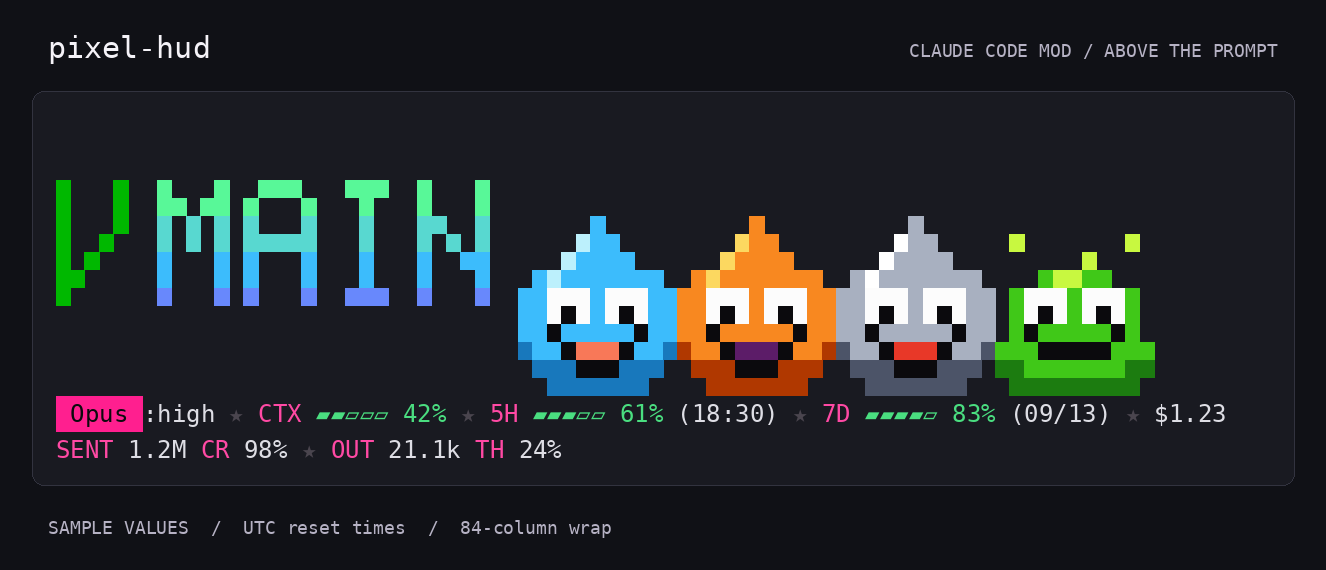
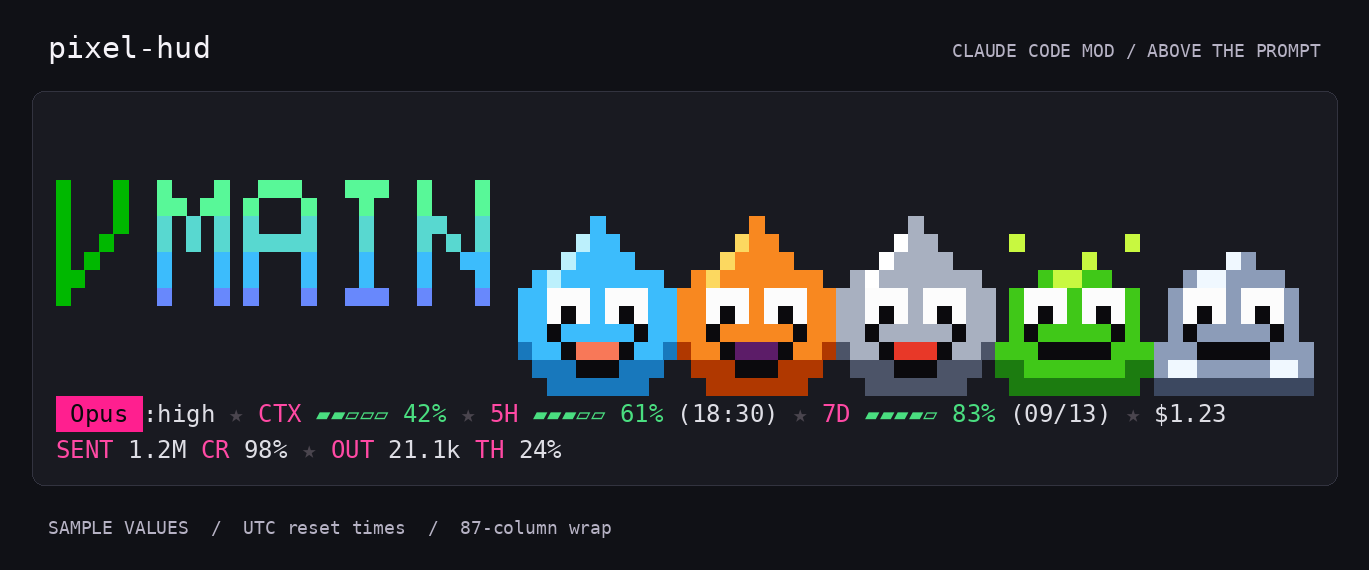
docs(pixel-hud): show all five kin and reconcile the motion spec

diff --git a/docs/showcase/render_mod.py b/docs/showcase/render_mod.py
@@ -33,6 +33,7 @@ mode.add_argument("--sheet", action="store_true",
                     help="draw the stage moments in a grid (one battle per quest skill)")
 mode.add_argument("--foes", type=Path, metavar="PNG",
                     help="draw every quest monster and skill frame to a contact sheet at PNG")
+parser.add_argument("--columns", type=int, default=84, help="terminal width (default: 84)")
 args = parser.parse_args()
 # Text is laid out with libraqm, as the committed images were: Pillow's basic
 # layout advances each cell 14 px instead of 14.45 and draws narrower images.
@@ -122,7 +123,7 @@ usage = {
     ],
     "cost": {"usd": payload["cost"]["total_cost_usd"]},
 }
-COLUMNS = 84
+COLUMNS = args.columns
 
 SHOWCASE_TEST = """
 import { mock, test } from 'claude-code/testing'
@@ -335,7 +336,7 @@ def paint(tree):
                 draw.rectangle((x, y + row_height / 2, x + cell_width, y + row_height - 1), fill=fg)
             elif char != " ":
                 draw.text((x, y + 26), char, font=font, fill=fg, anchor="ls")
-    draw.text((48, height - 53), "SAMPLE VALUES  /  UTC reset times  /  84-column wrap",
+    draw.text((48, height - 53), f"SAMPLE VALUES  /  UTC reset times  /  {COLUMNS}-column wrap",
               font=small, fill="#b6b2c4")
     return canvas, rows
 

diff --git a/docs/specs/dq-slime-motion.md b/docs/specs/dq-slime-motion.md
@@ -2,15 +2,15 @@
 
 Status: ready for agent · 2026-10-18 · shaped with `/impeccable shape`
 
-ADR 0015 later redrew the slimes 14 pixels wide on a 16-pixel stage (8 text
-rows) and doubled the lifts. The sizes, lifts and pixel drafts below are the
-original 7-pixel ones.
+ADR 0015 enlarged the stage to 16 pixels (8 text rows). The dimensions and
+motion below describe the current 11-column kin on that stage; the original
+7-pixel drafts have been superseded.
 
 The faces were later redrawn closer to Dragon Quest: round white eyes around a
 centred pupil, looking straight ahead, and a wide crescent grin with a salmon
 mouth. The King is 22 pixels wide under a crown of gold, purple and green. The
 merge crowns a King Slime, a Gold King Slime or a Metal King Slime, picked at
-random each time; each has its own body colours, and the Gold King's crown is
+random each time; each has its own body colours, and the Gold King's crown band is
 silver. The replies below name whichever King it is.
 
 Each kin was then modelled on its Dragon Quest counterpart and narrowed to 11
@@ -22,10 +22,13 @@ All five poses exist in all three sets. Each kin has its own palette: mouths
 are salmon, dark purple and red for the onion kin, with dark grins for both
 puddle-shaped kin. The merged blob stays 17 wide and all Kings stay 22 wide.
 The Gold and Metal Kings wear a plated sprite with banded metal shading; the
-blue King Slime keeps its own. A clean `main` heading uses 32 columns, so the 55-column family fits from 87 columns; the
-84-column showcase retains four kin under the existing branch-first fit rule.
+blue King Slime keeps its own. A clean `main` heading uses 32 columns, so the
+55-column family fits from 87 columns. The README family showcase uses that
+minimum width; at 84 columns only four kin fit under the branch-first fit rule.
 
 ## Problem Statement
+
+The original baseline before these changes was as follows.
 
 The slime family beside the branch in the pixel-hud mod reads as generic pixel
 blobs, not Dragon Quest slimes, and it moves stiffly. A hop is ten 140 ms
@@ -69,8 +72,9 @@ The HUD's numbers stay first. Motion marks moments; it never narrates.
    stays the same.
 3. As a developer, I want each kin's lower edge drawn in a darker shade of its
    body, so that the slimes look round rather than flat.
-4. As a developer, I want the slimes to keep their 7-column, 3-row footprint,
-   so that the branch name keeps its room.
+4. As a developer, I want each kin to use an 11-column slot on the 8-text-row
+   stage, giving up slots before shortening the branch name, so that the
+   branch name keeps its room.
 5. As a developer, I want the slimes to breathe at rest by default with a
    gentle squish every few seconds, so that the HUD feels alive without
    pulling my eye.
@@ -165,8 +169,8 @@ The HUD's numbers stay first. Motion marks moments; it never narrates.
 
 ### Sprites
 
-New palette letters, added to the existing B (body), H (highlight), Y (gold),
-R (jewel):
+Palette letters extend B (body), H (highlight), Y (crown band), J (red
+jewel), P (purple crown fabric) and G (green crown fabric):
 
 - **W**: eye white
 - **K**: pupil, mouth corners and outlines
@@ -174,25 +178,23 @@ R (jewel):
 - **D**: shade, a darker version of each kin's body colour, added to each
   kin's entry
 
-Each frame is 7 pixels wide and the stage is 6 pixels tall. The STAND pose is
-5 pixels tall, so a hop lifts at most 1 pixel (half a text row). The stretch
-pose sells being airborne more than the lift does. The pixel layouts below are
-drafts. The builder finalises them by rendering with the showcase renderer.
-The silhouette and face intent are the decision; the exact pixels are not.
+Each kin has 11-pixel-wide stand, blink, squash, wide and stretch sprites,
+with its feet on the floor of the 16-pixel stage. Stand heights are 10 pixels
+for the onion kin, 9 for the bubble slime and 8 for the liquid metal slime;
+stretch heights are 12, 12 and 10 respectively. Airborne stand poses lift by
+the unused stage height (6, 7 and 8 pixels), keeping each tip at the top.
+The authoritative pixel rows are the `ONION`, `PUDDLE` and `LIQUID` sprite
+sets in the slime module.
 
-```
-STAND (5)   SQUASH (4)   WIDE/breath (4)   STRETCH (6)   BLINK = STAND with W→B
-...B...                                     ...B...
-..BHB..     ..BHB..      ..BHB..            ..BHB..
-.BWBWB.     .BWBWB.      BWBBBWB            .BWBWB.
-BBKBKBB     BBKBKBB      BKBBBKB            .BKBKB.
-DDMMMDD     DDDMDDD      DDMMMDD            .BMMMB.
-                                            ..DDD..
-```
+A blink replaces eye whites with body colour and draws a closed lid across
+each eye's pupil row: `.BWWWB.` / `.BWKWB.` becomes `.BBBBB.` / `.BKKKB.`.
 
-The King Slime is redrawn with the same face language (white eyes, pupils, a
-red grin, a shaded lower edge) inside its existing 13 × 6 footprint. Its crown
-and jewel stay.
+All three Kings are 22 pixels wide and 16 pixels tall, with white eyes,
+pupils, a grin and a shaded lower edge. Their blink uses the same closed-lid
+pattern, derived from the standing sprite. The Gold King's crown band is
+silver; its jewels retain their colours. The landing squash is generated
+from the sprite: drop the first row and extend each remaining row by one
+pixel on each side.
 
 ### Timing tables (in 80 ms ticks)
 
@@ -215,8 +217,8 @@ These are data tables in the slime module, not logic.
 |---|---|---|---|
 | Crouch | SQUASH | 0 | 2 |
 | Launch | STRETCH | 0 | 1 |
-| Rise | STAND | 1 | 1 |
-| Hang | STAND | 1 | 2 |
+| Rise | STAND | stage height − stand height | 1 |
+| Hang | STAND | stage height − stand height | 2 |
 | Fall | STRETCH | 0 | 1 |
 | Land | SQUASH | 0 | 2 |
 | Rebound | STRETCH | 0 | 1 |
@@ -247,7 +249,8 @@ it):
 - Each one falls through the clipped top of the stage in 3 ticks, lands in
   SQUASH for 2 ticks, rebounds in STRETCH for 1 tick, then joins its resting
   motion.
-- Total length is about 16 ticks (about 1.3 seconds).
+- The last of five kin reaches its resting endpoint after 18 ticks (1.44
+  seconds); fewer kin finish sooner.
 - It does not replay on later redraws, polls or `/clear` refreshes within the
   same session.
 
@@ -327,7 +330,9 @@ to those slots at the minimum under the existing stage-clipping policy):
   - the cells the slime module returns for a given count, tick and moment;
   - what the mod blits, and when;
   - the reply text.
-- Never assert on internal tables or private helpers.
+- Derive timing and kin selection from the exported tables rather than
+  copying them into tests. Pixel and motion expectations must still be
+  independent of the rendering helpers they exercise.
 - **Seam 1, the slime module (pure).** This is the prior art in the "slime
   family" and "King Slime" describe blocks. Cover:
   - The rest frame has every slime grounded.
@@ -340,7 +345,7 @@ to those slots at the minimum under the existing stage-clipping policy):
   - Keep the 0.6.1 show tests, rescaled to the new ticks: the slimes move only
     in the air; they collide airborne, further in than halfway, with every body
     showing; the next frame is one grounded splat as wide as the king in the
-    first slime's colours; for 2, 3, 4 and 5 slimes every body shows at the
+    selected King's body colours; for 2, 3, 4 and 5 slimes every body shows at the
     collide frame and the first Scatter frame.
   - Replace the 0.6.1 "leap home in two hops" test: Scatter starts where the
     slimes collided, is airborne at some tick, and ends at home in SQUASH
@@ -371,17 +376,17 @@ to those slots at the minimum under the existing stage-clipping policy):
 - Visual check: regenerate `docs/showcase/pixel-hud.png`,
   `pixel-hud-king.png` and the README's `pixel-hud-king.gif` with the showcase
   renderer (`render_mod.py`, `--king`, `--gif`) and inspect them once. The
-  renderer hard-codes 140 ms (the `--king` catch-up, the GIF's per-tick clock
-  advance and its frame durations); derive these from the new frame constant,
-  and keep `--king` catching the king mid-reign. Keep the GIF's single shared
-  palette.
+  renderer derives the `--king` catch-up, GIF clock advances and frame
+  durations from `FRAME_MS`; keep `--king` catching the king mid-reign and
+  the GIF's single shared palette.
 
 ## Out of Scope
 
 - Changes to hudline's stdout status line, its themes or its Narration.
 - The branch glyphs, the meter, the HUD's layout and the rules for when
   slimes give up their room.
-- New slime kin, a larger slime footprint, or new stage height.
+- Additional kin beyond the five documented here, or further changes to the
+  11-column slots and 16-pixel stage height.
 - Sound, and any on-screen text message for moments other than the
   `/slime-king` replies.
 - Moments for other events, such as turn start, subagents or permission

diff --git a/README.md b/README.md
@@ -15,7 +15,7 @@ with the git branch in 8-bit pixel letters and a family of slimes breathing
 beside it.
 See [Claude Code: as a mod](#claude-code-as-a-mod).
 
-![pixel-hud, the Claude Code mod: the branch name main in 8-bit pixel letters with four pixel-art slimes beside it, above the same neon line, with the same sample values.](https://raw.githubusercontent.com/huijoson/hudline/main/docs/showcase/pixel-hud.png)
+![pixel-hud, the Claude Code mod: the branch name main in 8-bit pixel letters with five pixel-art slimes beside it, above the same neon line, with the same sample values.](https://raw.githubusercontent.com/huijoson/hudline/main/docs/showcase/pixel-hud.png)
 
 | What to watch | How to read it |
 |---|---|
@@ -67,7 +67,7 @@ Claude Code can also run hudline as a **mod**: a plugin that draws the line
 **above** the prompt, in the same neon look, and adds the git branch in 8-bit
 pixel letters on top. It needs no Node.js and no `statusLine` setting.
 
-![pixel-hud: the branch main in 8-bit pixel letters, four pixel-art slimes beside it, above hudline's neon line.](https://raw.githubusercontent.com/huijoson/hudline/main/docs/showcase/pixel-hud.png)
+![pixel-hud: the branch main in 8-bit pixel letters, five pixel-art slimes beside it, above hudline's neon line.](https://raw.githubusercontent.com/huijoson/hudline/main/docs/showcase/pixel-hud.png)
 
 Beside the branch sits a slime family: a slime, a she-slime, a metal slime, a
 bubble slime and a liquid metal slime, each modelled on its Dragon Quest namesake.

diff --git a/docs/showcase/README.md b/docs/showcase/README.md
@@ -42,12 +42,14 @@ same `payload.json` and `transcript.jsonl`. It needs the `claude` CLI (2.1.294
 or newer) besides Pillow and the font:
 
 ```sh
-/tmp/hudline-showcase-venv/bin/python docs/showcase/render_mod.py
+/tmp/hudline-showcase-venv/bin/python docs/showcase/render_mod.py --columns 87
 /tmp/hudline-showcase-venv/bin/python docs/showcase/render_mod.py --king
 /tmp/hudline-showcase-venv/bin/python docs/showcase/render_mod.py --gif
 /tmp/hudline-showcase-venv/bin/python docs/showcase/render_mod.py --sheet
 ```
 
+The first draws all five kin at 87 columns, the minimum beside clean `main`.
+Other images keep the default 84 columns.
 The second draws `pixel-hud-king.png`: a task of a minute ends, and the image
 catches the King Slime halfway through its reign, using the exported phase
 lengths.
